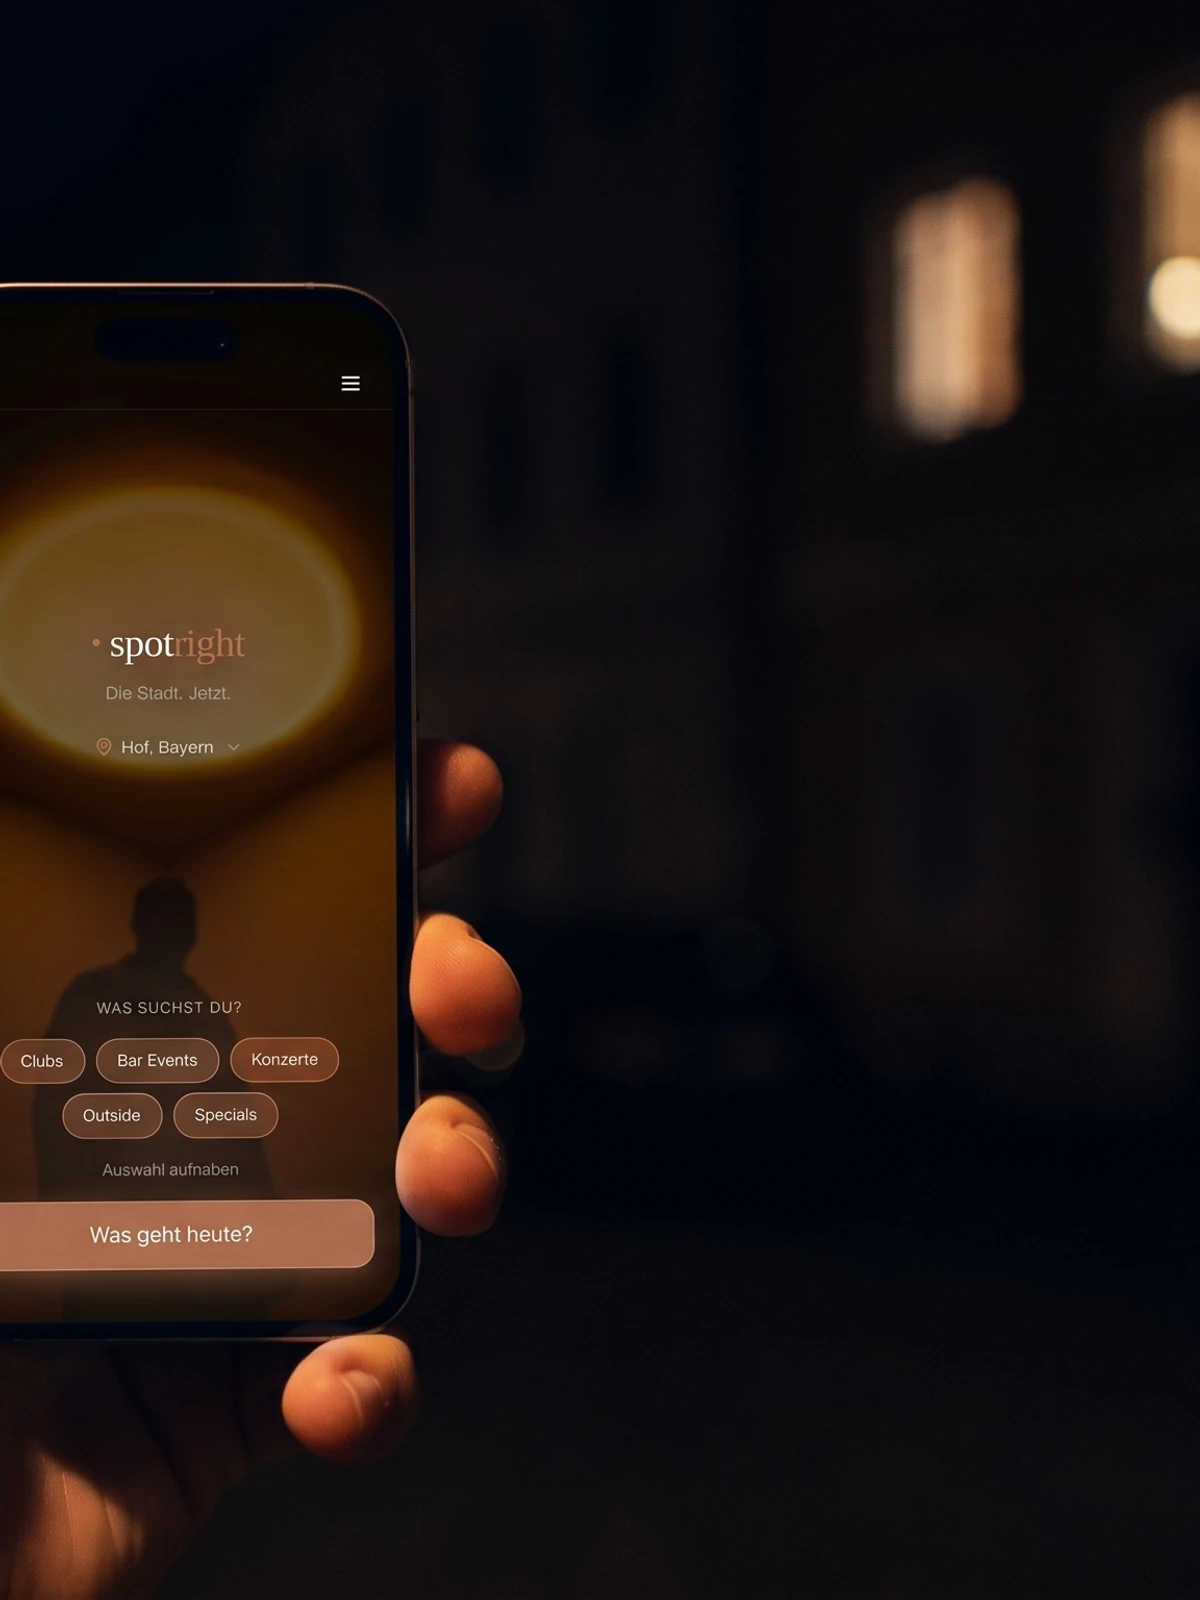
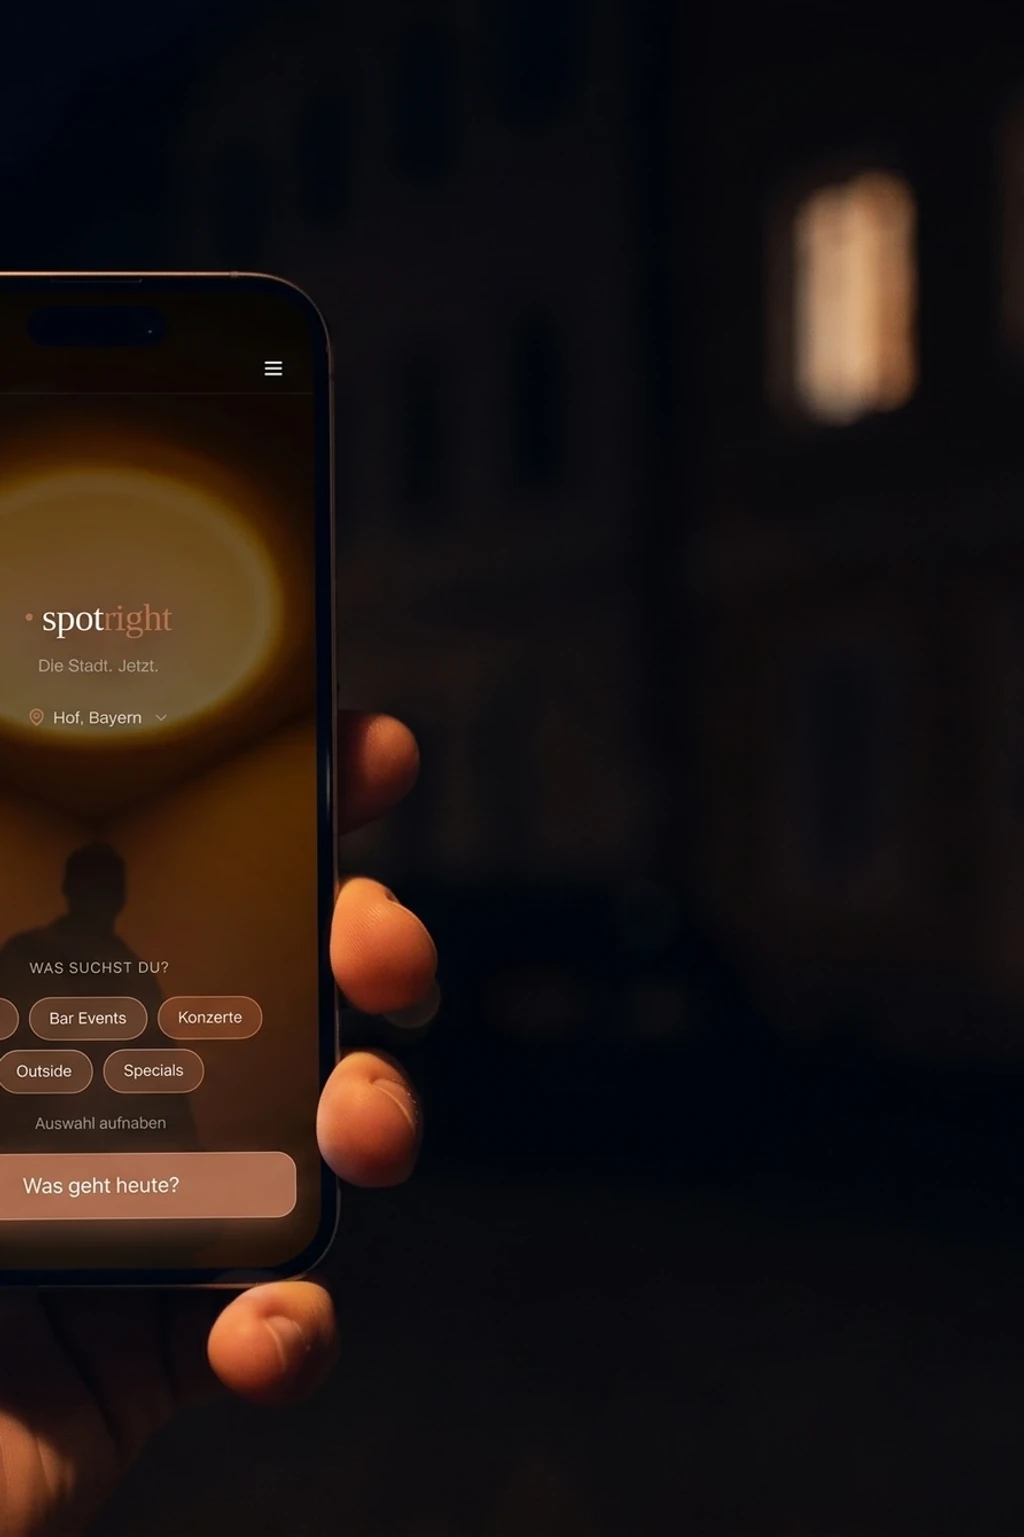
Make spotright thumb narrower 2:3 and add heightPct override
- Re-crop hero-thumb at 2:3 aspect centered on the phone
- Add optional heightPct field per project to override the
  index-based heightPcts array; set spotright to 1.0 so its
  portrait thumbnail towers next to tapestop's landscape

diff --git a/src/components/ProjectCard.jsx b/src/components/ProjectCard.jsx
@@ -7,12 +7,13 @@ export default function ProjectCard({ p, hPct, onNav }) {
   const aspect = (p.thumbW && p.thumbH) ? p.thumbW / p.thumbH : p.width / p.height;
   const maxH = aspect > 1.8 ? '75%' : aspect > 1.2 ? '90%' : aspect < 0.65 ? '100%' : '95%';
   const maxW = aspect > 1.2 ? '50vw' : undefined;
+  const effectiveHPct = typeof p.heightPct === 'number' ? p.heightPct : hPct;
   return (
     <div
       onClick={() => onNav('project', p)}
       onMouseEnter={() => setHovered(true)}
       onMouseLeave={() => setHovered(false)}
-      style={{ flexShrink: 0, height: `${hPct * 100}%`, maxHeight: maxH, maxWidth: maxW, aspectRatio: `${aspect}`, display: 'flex', flexDirection: 'column', cursor: STAR_CURSOR }}
+      style={{ flexShrink: 0, height: `${effectiveHPct * 100}%`, maxHeight: maxH, maxWidth: maxW, aspectRatio: `${aspect}`, display: 'flex', flexDirection: 'column', cursor: STAR_CURSOR }}
     >
       <div style={{ flex: 1, minHeight: 0, position: 'relative', overflow: 'hidden', background: p.bg }}>
         {p.thumb && <img src={p.thumb} alt="" style={{ position: 'absolute', inset: 0, width: '100%', height: '100%', objectFit: 'cover', display: 'block' }}/>}
